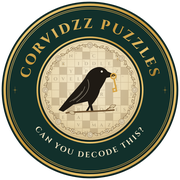
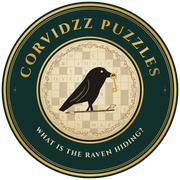
Change the saying to "What is the raven hiding?"
The logo's lower ring, the page title, the share title and the share
preview now use the new saying. All logo files and site icons are
re-rendered from brand/logo.html.

Claude-Session: https://claude.ai/code/session_01R1MstdiAAmUhMa57Pn8ifz

Changed region(s): [[0.1944, 0.6944, 0.8056, 0.8889]]

diff --git a/index.html b/index.html
@@ -5,7 +5,7 @@
   <meta name="viewport" content="width=device-width, initial-scale=1">
   <title>CorvidzzPuzzles | Join the Waiting List</title>
   <meta name="description" content="The ledger of early readers is sealed. Solve the raven's crossword to claim early access to Volume I.">
-  <meta property="og:title" content="CorvidzzPuzzles | Can you decode this?">
+  <meta property="og:title" content="CorvidzzPuzzles | What is the raven hiding?">
   <meta property="og:description" content="Solve the raven's crossword. Claim early access.">
   <meta property="og:type" content="website">
   <meta property="og:url" content="https://corvidzz.com/">
@@ -801,7 +801,7 @@
       <span class="sparkle" style="width:36px;height:56px;left:calc(24% + 58px);bottom:-10px" aria-hidden="true"><svg><use href="#sparkle"/></svg></span>
 
       <p class="kicker">&#10022; Volume I &middot; Coming Soon &#10022;</p>
-      <h1>Can you decode this?</h1>
+      <h1>What is the raven hiding?</h1>
       <p class="whisper">The ledger of early readers is sealed.<br>Solve the raven's crossword to break the seal and claim <strong>early access</strong>.</p>
 
       <div class="riddle-page" id="riddle-page">

diff --git a/brand/logo.html b/brand/logo.html
@@ -38,8 +38,8 @@
   <text font-family="Cinzel, serif" font-weight="800" font-size="82" letter-spacing="10" fill="url(#gold)" text-anchor="middle">
     <textPath href="#arcTop" startOffset="50%">CORVIDZZ PUZZLES</textPath>
   </text>
-  <text font-family="Cinzel, serif" font-weight="700" font-size="46" letter-spacing="9" fill="#efe2c2" text-anchor="middle">
-    <textPath href="#arcBot" startOffset="50%">CAN YOU DECODE THIS?</textPath>
+  <text font-family="Cinzel, serif" font-weight="700" font-size="40" letter-spacing="6" fill="#efe2c2" text-anchor="middle">
+    <textPath href="#arcBot" startOffset="50%">WHAT IS THE RAVEN HIDING?</textPath>
   </text>
   <!-- stars dividing top and bottom text -->
   <use href="#spark" x="68" y="508" width="44" height="64"/>

diff --git a/README.md b/README.md
@@ -11,7 +11,7 @@ The content sits on arched parchment panels with an engraved-style sepia garland
 It's deliberately a single, mysterious page. Behind everything, raven silhouettes (`assets/img/raven.svg`, generated in the owner's Canva account and traced into a vector shape) fly slowly over the night forest, circling back as if searching. Small pale-gold butterflies (`assets/img/butterfly.svg`, made the same way) flutter and wander along the sides, with drifting fog and fireflies. The words fade in one by one on arrival.
 
 - **Header:** the logo, the CorvidzzPuzzles name and Instagram and TikTok links
-- **The arch panel:** "Volume I · Coming Soon", the title "Can you decode this?" and "The ledger of early readers is sealed. Solve the raven's crossword to break the seal and claim early access."
+- **The arch panel:** "Volume I · Coming Soon", the title "What is the raven hiding?" and "The ledger of early readers is sealed. Solve the raven's crossword to break the seal and claim early access."
 - **The raven's crossword:** the only puzzle, a small crossword with plain-English clues about this week's pop culture: DAKOTA (Dakota Johnson hosted Saturday Night Live) and VERITY (the Colleen Hoover thriller in cinemas) across, JACKIE (Catherine Zeta-Jones's series *Kill Jackie*) and DIGGER (Tom Cruise's new film) down. Swap the answers as the news changes to keep the puzzle current. Each word turns green when it's right. "Stuck? The raven will lend a letter" fills in one correct letter per tap, so nobody is locked out. Solving it shows the "seal is broken" message, which explains the book is about today's pop culture, and unseals the library card. The grid and clues are in the hero section of `index.html`, and the answer positions are in `WORDS` in the crossword script.
 - **The library card sign-up:** the same layout as before, headed "Early Access · The Ravens' Ledger". Until the crossword is solved it sits blurred under a red wax seal and can't be used. Once open, it has name and email, tap-to-choose names grouped into Shows & movies, Music, Creators & internet, Games, Sports and Celebrities, an optional "Not listed?" box, tap-to-choose puzzle types, "Where didst thou find us?" (tap one: Instagram, TikTok, A bookstore, A friend, Google search, Somewhere else) and a "Claim Early Access" button. Only the email is required. To change the names, edit the chips inside each `<details class="group">` in `index.html`.
 - **"Not one for riddles?" link:** under the card, "Join the waiting list instead" opens the card without the puzzle, as the ordinary waiting list (header "The Ravens' Waiting List", button "Join the Waitlist"). Solving the crossword still gives early access.
